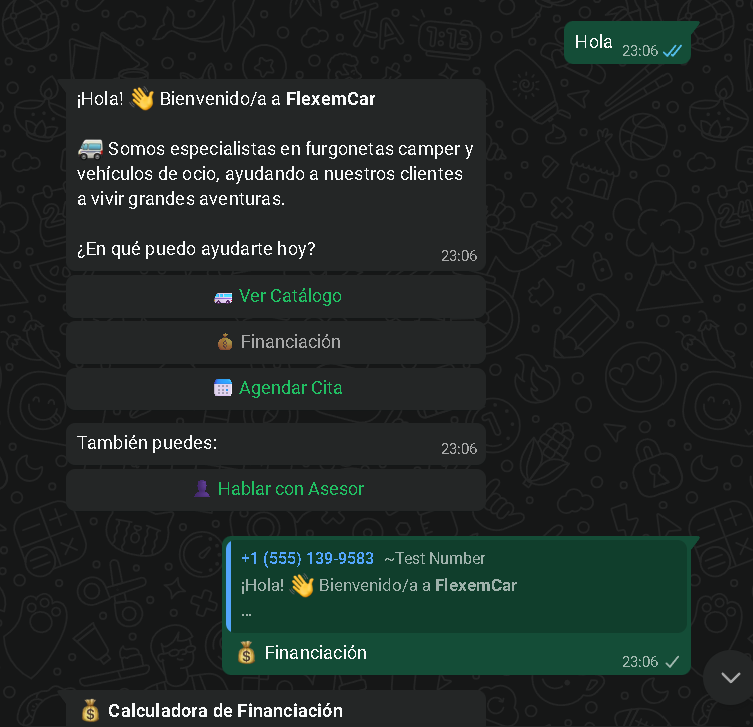
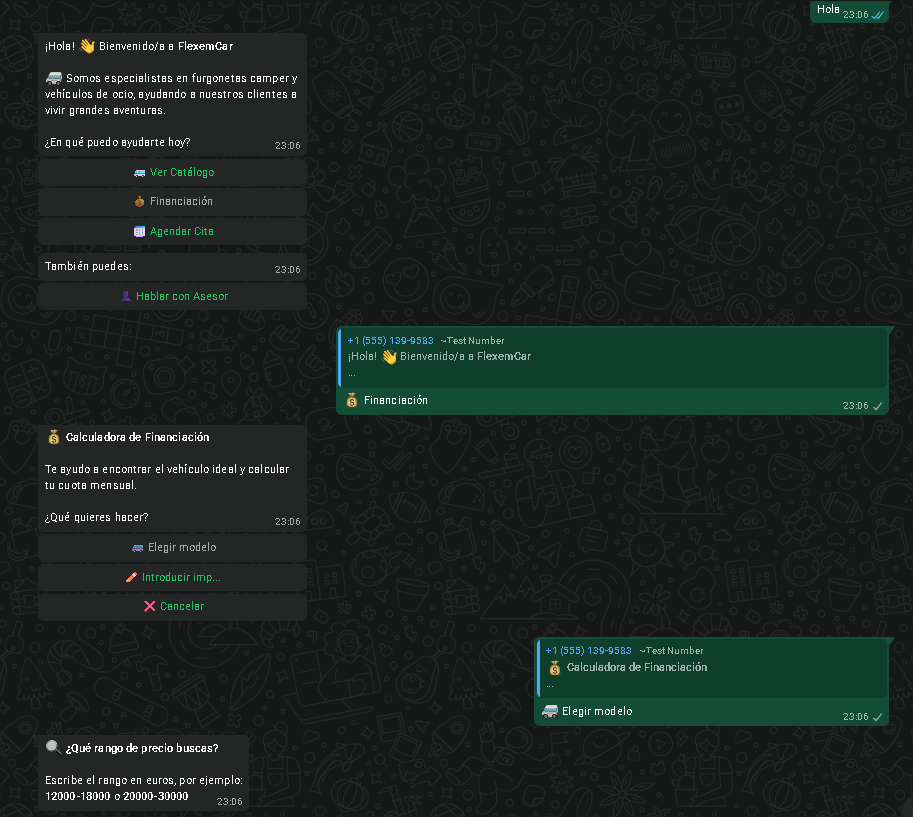
actualizando imagen y mejorando estilos en la sección "sobre mí"

diff --git a/src/app/components/about-me/about-me.component.css b/src/app/components/about-me/about-me.component.css
@@ -40,7 +40,8 @@
     color: var(--text-color);
     font-weight: bold;
     line-height: 1.5;
-    text-wrap: balance;
+    text-wrap: wrap;
+    text-align: justify;
     margin: 0;
     transition: all 0.3s ease;
 
